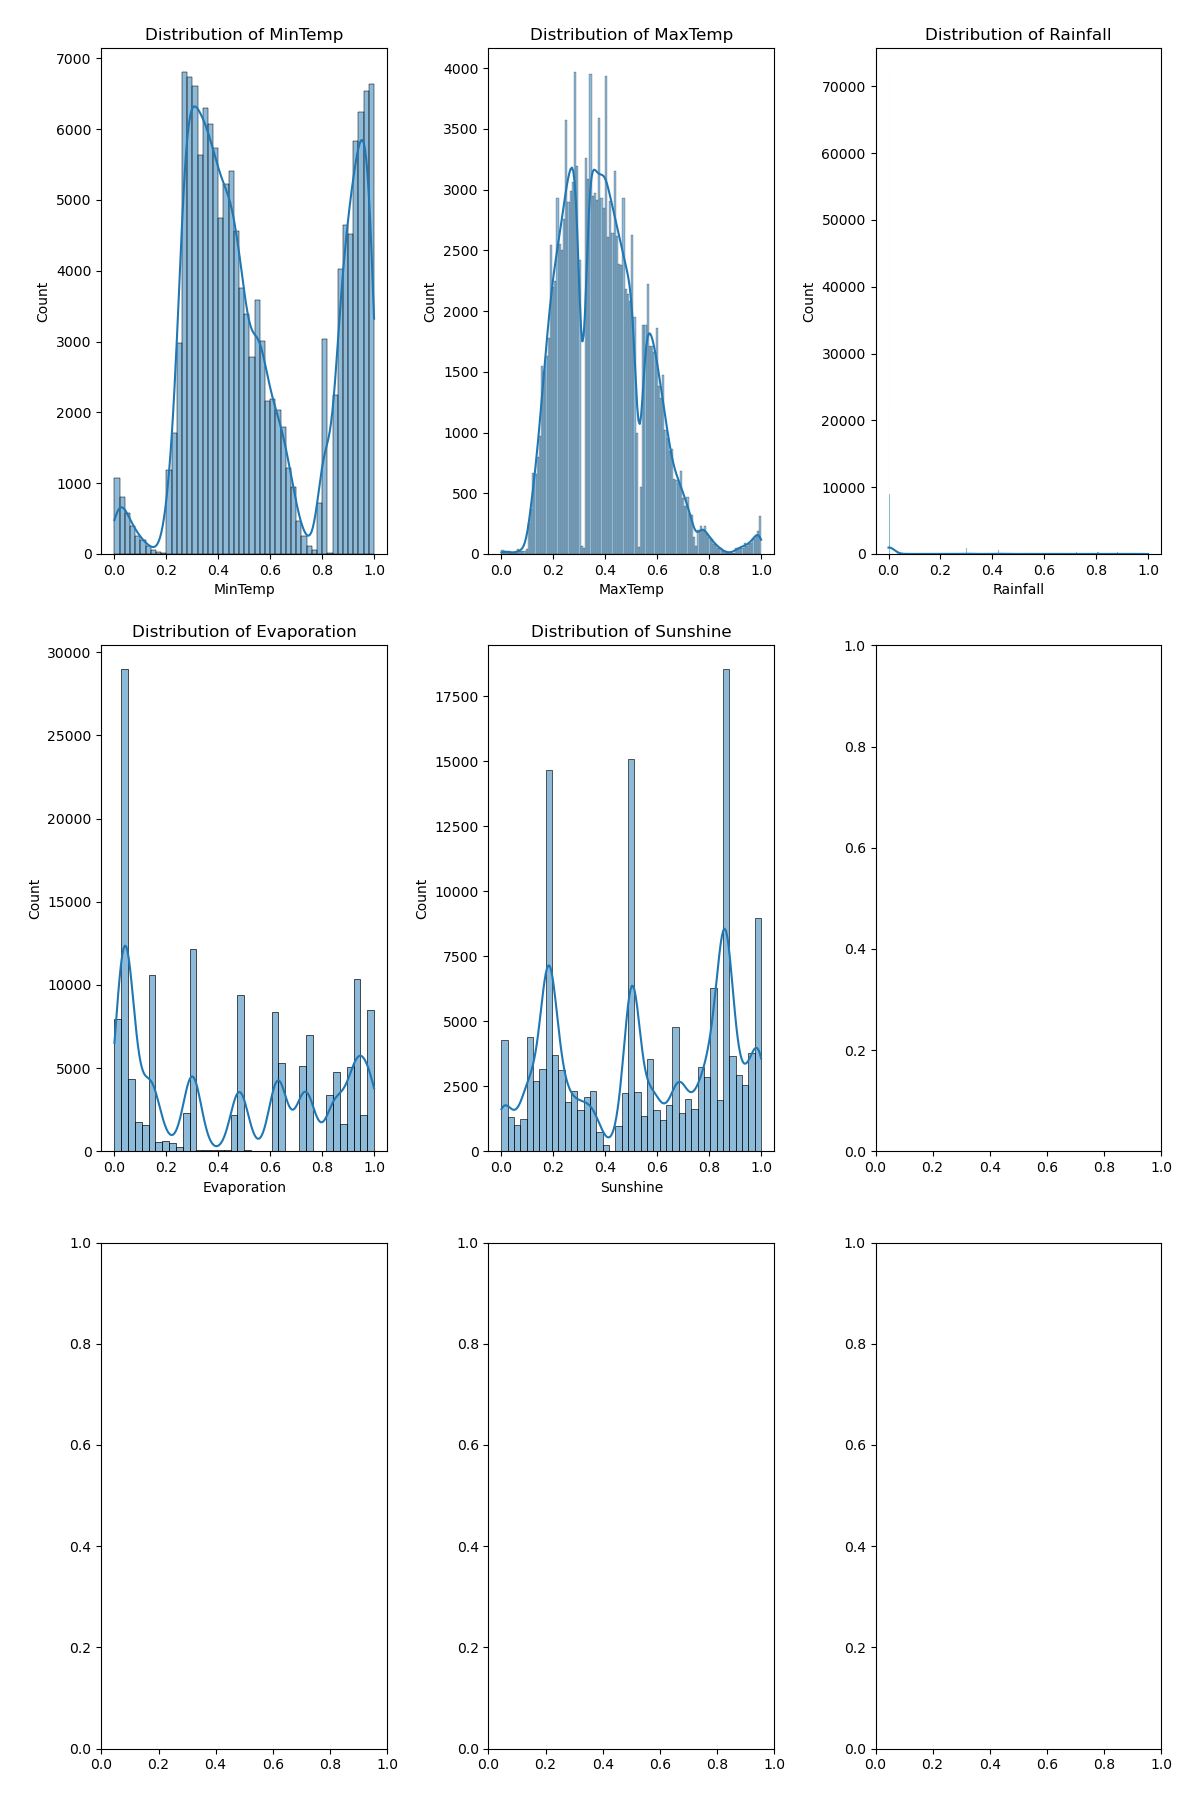
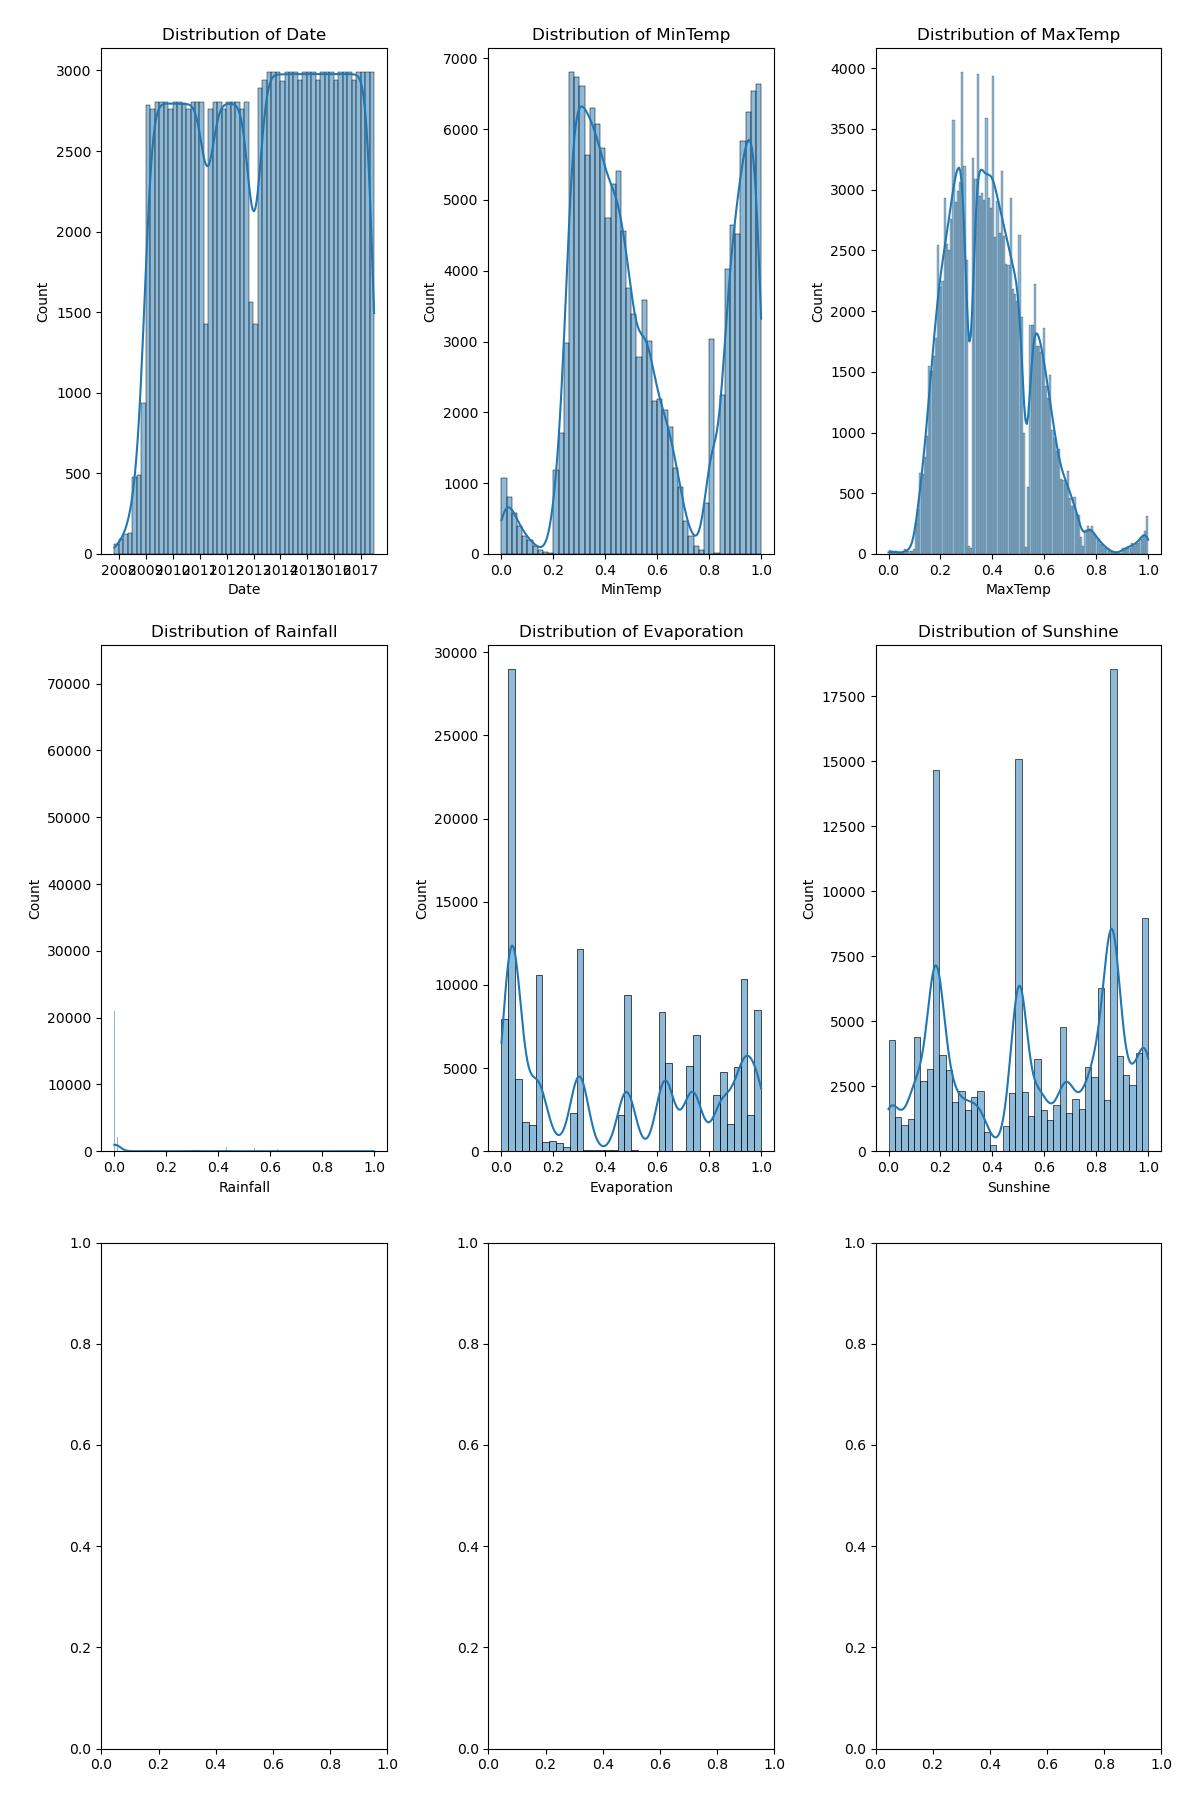
added in line comments and adjusted diagrams

diff --git a/weather_prediction.py b/weather_prediction.py
@@ -12,7 +12,6 @@ import os
 import time 
 
 from sklearn.preprocessing import MinMaxScaler
-from sklearn.model_selection import train_test_split
 from sklearn.preprocessing import LabelEncoder
 from tensorflow.keras.models import Sequential
 from tensorflow.keras.layers import Dense, Dropout, LSTM, Bidirectional, InputLayer
@@ -27,43 +26,63 @@ from tensorflow.keras.layers import Dense, Dropout, LSTM, Bidirectional, InputLa
 #------------------------------------------------------------------------------
 # parameters
 #------------------------------------------------------------------------------
-COMPANY = "Weather Prediction"
-#TRAIN_START = '2008-12-01'
-#TRAIN_END = '2010-12-01'
-FILL_METHOD = 'ffill'
-SPLIT_METHOD = 'ratio'
-DROP_THRESHOLD = 0.7
-FEATURES = ['Location', 'MinTemp','MaxTemp','Rainfall','Evaporation','Sunshine','RainToday','RainTomorrow']
+FILL_METHOD = 'ffill'           #this is to specify how to handle missing values in the dataset
+SPLIT_METHOD = 'ratio'          #this indicates that the dataset will be split into training and testing based on the specified ratio
+DROP_THRESHOLD = 0.7            #if the column is more than 70% missing value it will be dropped from the dataset 
+Output_DIagram = 'Diagrams'     #file to save diagrams to
+Bar_GraphFeature = 'RainToday'  # to choose what feature to show on the bar graph
+
+#Scatter plot variables 
+X_COL='MinTemp'
+Y_COL='MaxTemp'
+
+#features that user wants to call and analyse 
+#this is to represent the specific columns from the dataset that will be extracted for analysis
+FEATURES = ['Date','Location', 'MinTemp','MaxTemp','Rainfall','Evaporation','Sunshine','RainToday','RainTomorrow']
+
+#columns to normalize
+#this refers to the columns in the dataset that will be normalized and adjuust the values to a standard cale
+# to improve the performace of the machine learning algorithms
 NORMALIZE_COLUMN = ['MinTemp','MaxTemp','Rainfall','Evaporation','Sunshine','WindGustDir',
             'WindGustSpeed','WindDir9am','WindDir3pm','WindSpeed9am','WindSpeed3pm','Humidity9am','Humidity3pm','Pressure9am','Pressure3pm','Cloud9am','Cloud3pm',
             'Temp9am','Temp3pm','RainToday','RainTomorrow']
 
+#file path is to indicate where the dataset in being read from
+#the dataset will be stored in the variable df for further processing 
 FILE_PATH = df = pd.read_csv('data/weatherAUS.csv') 
-
-# save processes data file path
-date_now = time.strftime("%Y-%m-%d")
-data_filename = os.path.join("data",f"{COMPANY}_{date_now}.csv") #processed data
-file_name = f"{date_now}_{COMPANY}"
 
 #------------------------------------------------------------------------------
 # format lables in the dataset 
 #------------------------------------------------------------------------------
+#this function takse two arguments which is DF and Categorical columns 
+# df is the datafram containing the dateset 
+# categorical columns is a list of column names that contain categorical data non numeric
 def encode_categorical(df, categorical_columns):
+
     # Initialize LabelEncoder for categorical columns
+    #this is to create to store the lable encoder objets for each categorical column
     label_encoders = {}
+
+    #for each column in the list the lable encoder will be created 
     for col in categorical_columns:
         le = LabelEncoder()
         df[col] = le.fit_transform(df[col].astype(str))  # Ensure all values are strings for consistent encoding
         label_encoders[col] = le  # Store the label encoders for possible inverse_transform later
+    
     return df, label_encoders
 
 #------------------------------------------------------------------------------
 # load and process data function
 #------------------------------------------------------------------------------
 def process_weather_data(file_path,fill_method = 'ffill', drop_threshold = 0, normalize_columns=None, features=None):
+    
+    #the dataset is loaded into the dataframe 
     df = pd.read_csv('data/weatherAUS.csv') 
 
     #handling missing values
+    # mean is to replace missing values with the column mean 
+    # ffill is foward fill the missing values 
+    # drop is to drop the missing rows with missing values 
     if fill_method =='mean':
         df.fillna(df.mean(), inplace=True)
     elif fill_method == 'ffill':
@@ -74,11 +93,19 @@ def process_weather_data(file_path,fill_method = 'ffill', drop_threshold = 0, no
         raise ValueError("Invalid fill method. Choose 'mean', 'ffill', or 'drop'.")
 
     # Drop columns with more missing data than the threshold
+    #the columns with more missing data than the specified treshold are dropped
+    #if the threshold is 0.7 any column with more than 70% missing values will be remoced
     df.dropna(thresh=int(drop_threshold * len(df)), axis=1, inplace=True)
 
+     # Ensure the Date column is in datetime format
+    if 'Date' in df.columns:
+        df['Date'] = pd.to_datetime(df['Date'], errors='coerce')  # Coerce errors to handle invalid dates
+
+    #this is the columns to be encoded as categorical features 
+    # the encode_categorical function is to transform these categorical columns into numerical lables usign the encoder 
     if features:
         features_to_encode = [col for col in features if col not in 
-                              ['Location', 'WindGustDir', 'WindDir9am', 'WindDir3pm','RainToday','RainTomorrow']]
+                              ['Date','Location', 'WindGustDir', 'WindDir9am', 'WindDir3pm','RainToday','RainTomorrow']]
         df, label_encoders = encode_categorical(df, features_to_encode)
 
     if normalize_columns:
@@ -99,11 +126,19 @@ def process_weather_data(file_path,fill_method = 'ffill', drop_threshold = 0, no
             print("No numerical columns to normalize.")
 
     # Filter the DataFrame to include only the columns specified in DISPLAY_COLUMNS
-    filtered_df = df[FEATURES]
+    # This function is used to filter the data fram to include only the specified 
+    # Columns in features if is not provided it will return the entire dataframe 
+    filtered_df = df[features] if features else df
 
     return filtered_df
 #------------------------------------------------------------------------------
 # Call Processing data function 
+# this is to load, clean and process the weather data bsed on the parameters provided 
+# the file path is which the data set file is found 
+# the fill method is for filling the missing vales 
+# the drop threshold is to drop the columns with excessive missing data 
+# the normalize argument is to ensure the columns are normalize 
+# the features will indicate which columns are being called
 #------------------------------------------------------------------------------
 processed_df = process_weather_data(file_path=FILE_PATH,fill_method=FILL_METHOD,
     drop_threshold=DROP_THRESHOLD,normalize_columns=NORMALIZE_COLUMN,features=FEATURES
@@ -114,32 +149,51 @@ processed_df = process_weather_data(file_path=FILE_PATH,fill_method=FILL_METHOD,
 # print("\n",df.columns)                      #show what columns are there 
 # df.info()                                   #show columns info
 #------------------------------------------------------------------------------
+#this is to configure the pandas to display all the columns of the dataframe when 
+#printing rather than truncating the view 
+#the print(processed_df.head(10)) prints out the number of rows that is being called 
 print("\n")
 pd.set_option('display.max_columns', None)
 print(processed_df.head(10))
 
+#to check the top 5 most frequect values for the columns
+#this is to iterate through all the columns in the original dataframe 
+for col in df.columns:
+    print('\n')
+    print(col)
+    print('-'*20)
+    print(df[col].value_counts(normalize=True).head())
+
 #------------------------------------------------------------------------------
 # Histogram function
 #------------------------------------------------------------------------------
-def plot_histogram(df, output_dir ='Diagrams', figsize=(12,18)):
+def plot_histogram(df, output_dir =Output_DIagram, figsize=(12,18)):
 
     #create the directory if it doesn't exist
     if not os.path.exists(output_dir):
         os.makedirs(output_dir)
 
-    #Get the continuous 
+    #Get the continuous
+    #this finds the columns in the dataframe that have a numeric datatype
+    # these are the columns for which histograms will be plotted
     continuous_columns = [col for col in df.columns if df[col].dtype != object]
 
     #set up the subplot grid 
+    #this creates a grid of subplots with 3 rows and columns using matplotlibs subplots 
+    #Flattens the axes array to make it easier to iterate over in a single dimension.
     fig, axes = plt.subplots(nrows = 3, ncols = 3, figsize=figsize)
     axes = axes.reshape(-1)
 
-    #plot a histogram for each of the columns called 
+    #plot a histogram for each of the columns called
+    #this function uses seaborn histplot to creat a histogram for each column
+    #kde parameters adda kernel density estimate to the plot 
     for i , col in enumerate(continuous_columns):
         sns.histplot(df[col], ax=axes[i], kde=True)
         axes[i].set_title(f'Distribution of {col}')
 
-    #adjust layout and save the figure 
+    #adjust layout and save the figure
+    #this adjust the layout of the subplots to make sure they are neatly arranged and not 
+    #overlapping with a padding of 2.0
     fig.tight_layout(pad=2.0)
     plt.suptitle("Histogram of Columns", fontsize = 16, y =1.02)
 
@@ -149,41 +203,76 @@ def plot_histogram(df, output_dir ='Diagrams', figsize=(12,18)):
     plt.show()
 #------------------------------------------------------------------------------
 # Bar graph function function for rainy days
+# this function is to help display the processed data into a bar graph 
+# this function takes parameters like DF and output_dir 
+# which is where the diagram will be saved to 
 #------------------------------------------------------------------------------
-def anayze_rainy_days_by_location(df, output_dir='Diagrams'):
+def Bar_Graph(df, output_dir=Output_DIagram):
+
     #ensure the RainToday column is in binary format (1 for 'Yes', 0 for 'No')
-    df['RainToday'] = df['RainToday'].apply(lambda x: 1 if x== 'Yes' else 0)
+    #this step is to ensure that the column is suitable for numerical aggregation and plotting 
+    df[Bar_GraphFeature] = df[Bar_GraphFeature].apply(lambda x: 1 if x== 'Yes' else 0)
 
     #group by location an sum the rainToday column to get the number of rainy days per location 
+    #this groups the dataframe by the location colume 
+    # and it aggregates the value of the chosen 
+    # feature summing them up for each location 
     df_rain_by_location = df.groupby(by='Location').sum()
-    df_rain_by_location = df_rain_by_location[['RainToday']]
+    df_rain_by_location = df_rain_by_location[[Bar_GraphFeature]]
 
-    #plotting the bar graph 
+    #plotting the bar graph
+    # the x axis is repensented by the feature that has been chosen to be shown on the bar graph
+    # the y axis is to represent the location 
+    #data=df_rain_by_location.sort_values('RainToday', ascending=False): this is used to sort the data by 
+    # the number of days by descending order example number of rainy days 
+    # oreint h is to specifies a horizontal orientation for th bar plot 
+    # palette=' creast' is used to appl a color palette for the bars
     plt.figure(figsize=(8,12))
-    sns.barplot(x='RainToday', y=df_rain_by_location.index,
-                data=df_rain_by_location.sort_values('RainToday', ascending=False),
-                orient='h', palette='crest')
-    plt.xlabel('Number of Rainy Days')
-    plt.title('Rainy Days by Location')
+    sns.barplot(x=Bar_GraphFeature, y=df_rain_by_location.index,
+                data=df_rain_by_location.sort_values(Bar_GraphFeature, 
+                        ascending=False),orient='h', palette='crest')
+    plt.xlabel(f'Number of {Bar_GraphFeature}')
+    plt.title(f'{Bar_GraphFeature} by Location')
     plt.tight_layout()
 
-    #save the figure 
-    output_path = os.path.join(output_dir,'rainy_days_by_loc.png')
+    #save the figure
+    #this is used to create the file with a specific name and save it to the 
+    #designated location 
+    output_path = os.path.join(output_dir,f'{Bar_GraphFeature}by_loc.png')
     plt.savefig(output_path, facecolor='white', dpi=100)
     plt.show()
 
 #------------------------------------------------------------------------------
 # Heatmap function
+# this heatmap plot takes in multiple parameters
+# the df is used for the datafram which will be used to plot the diagram
+# the output dir is used to save the diagram to the right file path 
+#figsize is the sige of the figure is set to 
+#focus_cols is an optional list of column to focus on if provided only these columns will be included in the heatmap 
 #------------------------------------------------------------------------------
-def plot_heatmap(df, output_dir='Diagrams', figsize=(12,10), focus_cols=None):
+def plot_heatmap(df, output_dir=Output_DIagram, figsize=(12,10), focus_cols=None):
+    
+    #this is used to provide the data fram and it is filtered to include only these 
+    #columns. to allow the heatmap for a specific subset of columns to be generated
     if focus_cols:
         df = df[focus_cols]
 
+    #Computes the correlation matrix for the DataFrame. 
+    # The correlation matrix is a table showing correlation coefficients 
+    # between pairs of columns. Values range from -
+    # 1 (perfect negative correlation) to 1 (perfect positive correlation).
     corr_matrix = df.corr()
 
     #plotting the heatmap
+    #Uses Seaborn’s heatmap function to plot the correlation matrix:
+    #corr_matrix: The correlation matrix to be visualized.
+    #annot=True: Annotates each cell with the numeric value of the correlation coefficient.
+    #cmap='coolwarm': Applies the 'coolwarm' color map, which provides a gradient from blue (negative correlations) to red (positive correlations).
+    #fmt='.2f': Formats the annotation text to two decimal places.
+    #vmin=-1, vmax=1: Sets the color scale limits to -1 and 1 to standardize the visualization range.
     plt.figure(figsize=figsize)
-    sns.heatmap(corr_matrix, annot=True, cmap='coolwarm', fmt='.2f', vmin=-1, vmax=1)
+    sns.heatmap(corr_matrix, annot=True, cmap='coolwarm', 
+                fmt='.2f', vmin=-1, vmax=1)
     
     #save heatmap diagram to the right path
     plt.title('Correlation Heatmap')
@@ -193,14 +282,22 @@ def plot_heatmap(df, output_dir='Diagrams', figsize=(12,10), focus_cols=None):
 
 #------------------------------------------------------------------------------
 # scatter plot diagram
+# the scatter plot diagram takes in parameters like 
+# df,x_col,y_col output_dir, figsize, and hue 
 #------------------------------------------------------------------------------
-def scatter_plot(df,x_col,y_col ,output_dir='Diagrams', figsize=(8,6), hue=None):
+def scatter_plot(df,x_col,y_col ,output_dir=Output_DIagram, figsize=(8,6), hue=None):
 
     #create directory if it doesn't exist 
     if not os.path.exists(output_dir):
         os.makedirs(output_dir)
 
-    #plotting scatter plot 
+    #plotting scatter plot
+    # data = df is used to specifi the dataframe containing the data 
+    # x=x_col is used to set the x axis to the values from  x_col
+    # y=y_col is used to set the y axis to the values from y_col
+    #hue is used colors the points based on categories or values in the hue column if
+    #hue is none all points will be the same color 
+    # the palette='viridis': applies the virdis color palette to the plot
     plt.figure(figsize=figsize)
     sns.scatterplot(data=df, x=x_col, y=y_col,hue=hue, palette='viridis')
     plt.title(f'Scatter Plot: {x_col} vs {y_col}', fontsize=14)
@@ -215,13 +312,42 @@ def scatter_plot(df,x_col,y_col ,output_dir='Diagrams', figsize=(8,6), hue=None)
     #display the scatter plot graph
     plt.show()
 
+#------------------------------------------------------------------------------
+# box plot diagram
+# df is used to contain the data frame to be ploted 
+# features is a list of column names for wich the bo plots will be created 
+#output dir is the directory where the diagram will be saved
+# figsize is used to specidies the dimensions of the box plot 
+#------------------------------------------------------------------------------
+# Box plot function
+def plot_boxplot(df, features, output_dir=Output_DIagram, figsize=(12,6)):
+
+    # Create the directory if it doesn't exist
+    if not os.path.exists(output_dir):
+        os.makedirs(output_dir)
+
+    # Plot the box plot for each feature
+    #Creates a figure with the specified size.
+    #Uses the boxplot method of the DataFrame to create box plots for the columns specified in features. Each column will have its own box plot.
+    #Sets the title of the box plot to "Box Plot of Features".
+    #Adjusts the layout to ensure everything fits well within the figure.
+    plt.figure(figsize=figsize)
+    df[features].boxplot()
+    plt.title("Box Plot of Features", fontsize=16)
+    plt.tight_layout()
+
+    # Save the plot
+    output_path = os.path.join(output_dir, 'boxplot.png')
+    plt.savefig(output_path, facecolor='white', dpi=100)
+    plt.show()
+
 
 
 #------------------------------------------------------------------------------
 # Calling graph functions
 #------------------------------------------------------------------------------
 plot_histogram(processed_df)                    # calling Histogram graph.
-anayze_rainy_days_by_location(processed_df)     # calling graph for rainy days 
+Bar_Graph(processed_df)                         # calling bar graph
 plot_heatmap(processed_df)                      # calling heat map graph for the functiong being called
 
 #calling scatter plot diagram 
@@ -229,6 +355,8 @@ plot_heatmap(processed_df)                      # calling heat map graph for the
 #example like x_col='Sunshine', y_col='Rainfall'
 
 #scatter plot for min temp and max temp
-scatter_plot(df=processed_df, x_col='MinTemp', y_col='MaxTemp')
-#scatter plot for rainfall vs evaporation          
-scatter_plot(df=processed_df, x_col='Rainfall', y_col='Evaporation')
+scatter_plot(df=processed_df, x_col=X_COL, y_col=Y_COL)
+
+#calling box plot function 
+plot_boxplot(df=processed_df, features=FEATURES)
+
